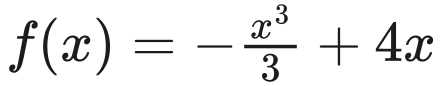
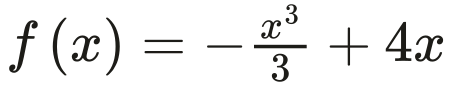
Add files via upload

diff --git a/eq/INDEX-wk5.md b/eq/INDEX-wk5.md
@@ -1,4 +1,4 @@
 | File | Mode | PNG px | Source |
 |---|---|---|---|
-| `wk5-010.png` | inline | 344x92 | `(wiris)` |
-| `wk5-020.png` | inline | 414x92 | `(wiris)` |
+| `wk5-010.png` | inline | 344x92 | `\(\scriptsize m = \frac{f \left(b\right) - f \left(a\right)}{b - a}\)` |
+| `wk5-020.png` | inline | 424x92 | `\(\scriptsize f' \left(c\right) = \frac{f \left(b\right) - f \left(a\right)}{b - a}\)` |

diff --git a/eq/INDEX-wk7.md b/eq/INDEX-wk7.md
@@ -1,4 +1,4 @@
 | File | Mode | PNG px | Source |
 |---|---|---|---|
-| `wk7-010.png` | inline | 668x87 | `(wiris)` |
-| `wk7-020.png` | inline | 339x66 | `(wiris)` |
+| `wk7-010.png` | inline | 663x87 | `\(\scriptsize \int_{a}^{b} f \left(x\right) d x = F \left(b\right) - F \left(a\right)\)` |
+| `wk7-020.png` | inline | 358x66 | `\(\scriptsize F' \left(x\right) = f \left(x\right)\)` |

diff --git a/eq/INDEX-disc61-sol.md b/eq/INDEX-disc61-sol.md
@@ -1,3 +1,3 @@
 | File | Mode | PNG px | Source |
 |---|---|---|---|
-| `disc61-sol-010.png` | inline | 442x86 | `(wiris)` |
+| `disc61-sol-010.png` | inline | 452x86 | `\(\scriptsize f \left(x\right) = - \frac{x^{3}}{3} + 4 x\)` |

diff --git a/eq/INDEX-proj1-sneak.md b/eq/INDEX-proj1-sneak.md
@@ -1,3 +1,3 @@
 | File | Mode | PNG px | Source |
 |---|---|---|---|
-| `proj1-sneak-010.png` | inline | 80x65 | `(wiris)` |
+| `proj1-sneak-010.png` | inline | 70x57 | `\(\scriptsize x^{2}\)` |
